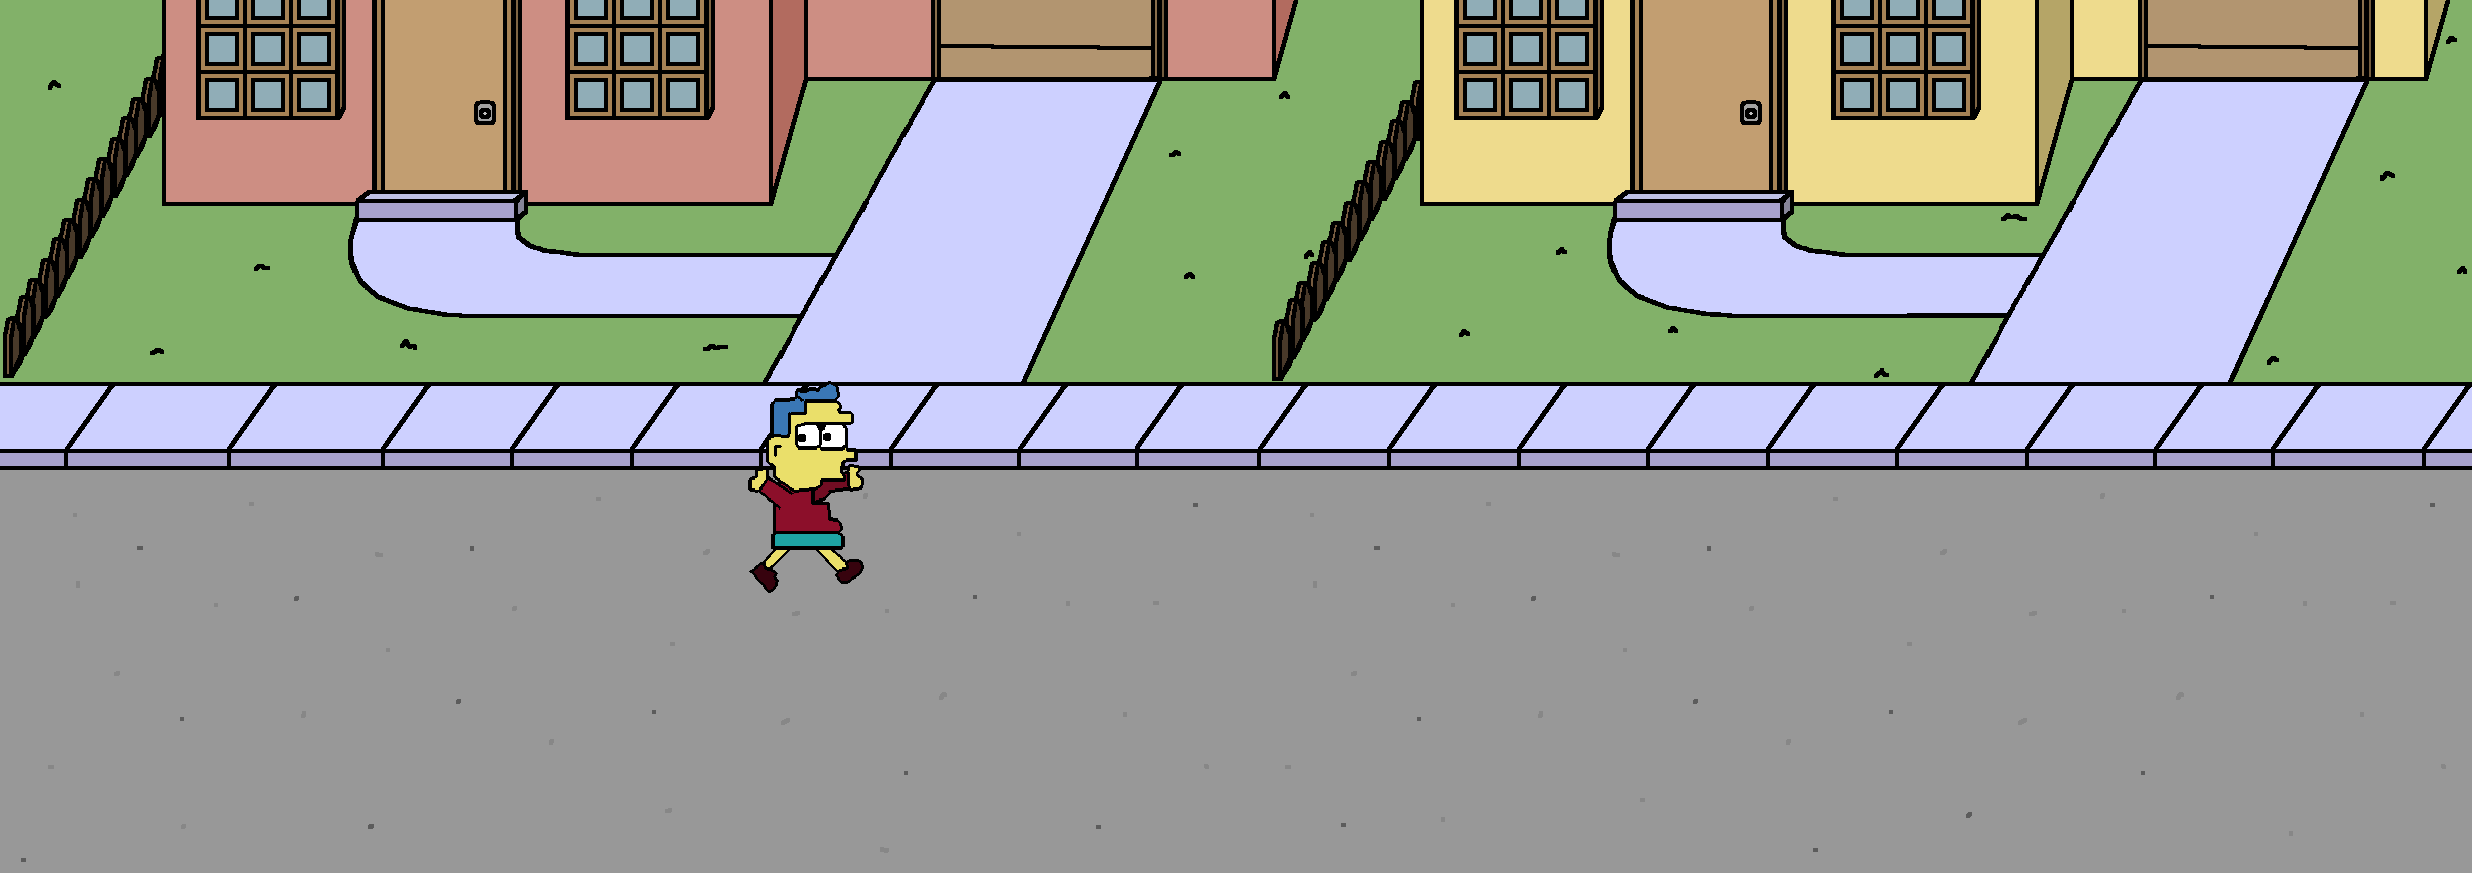
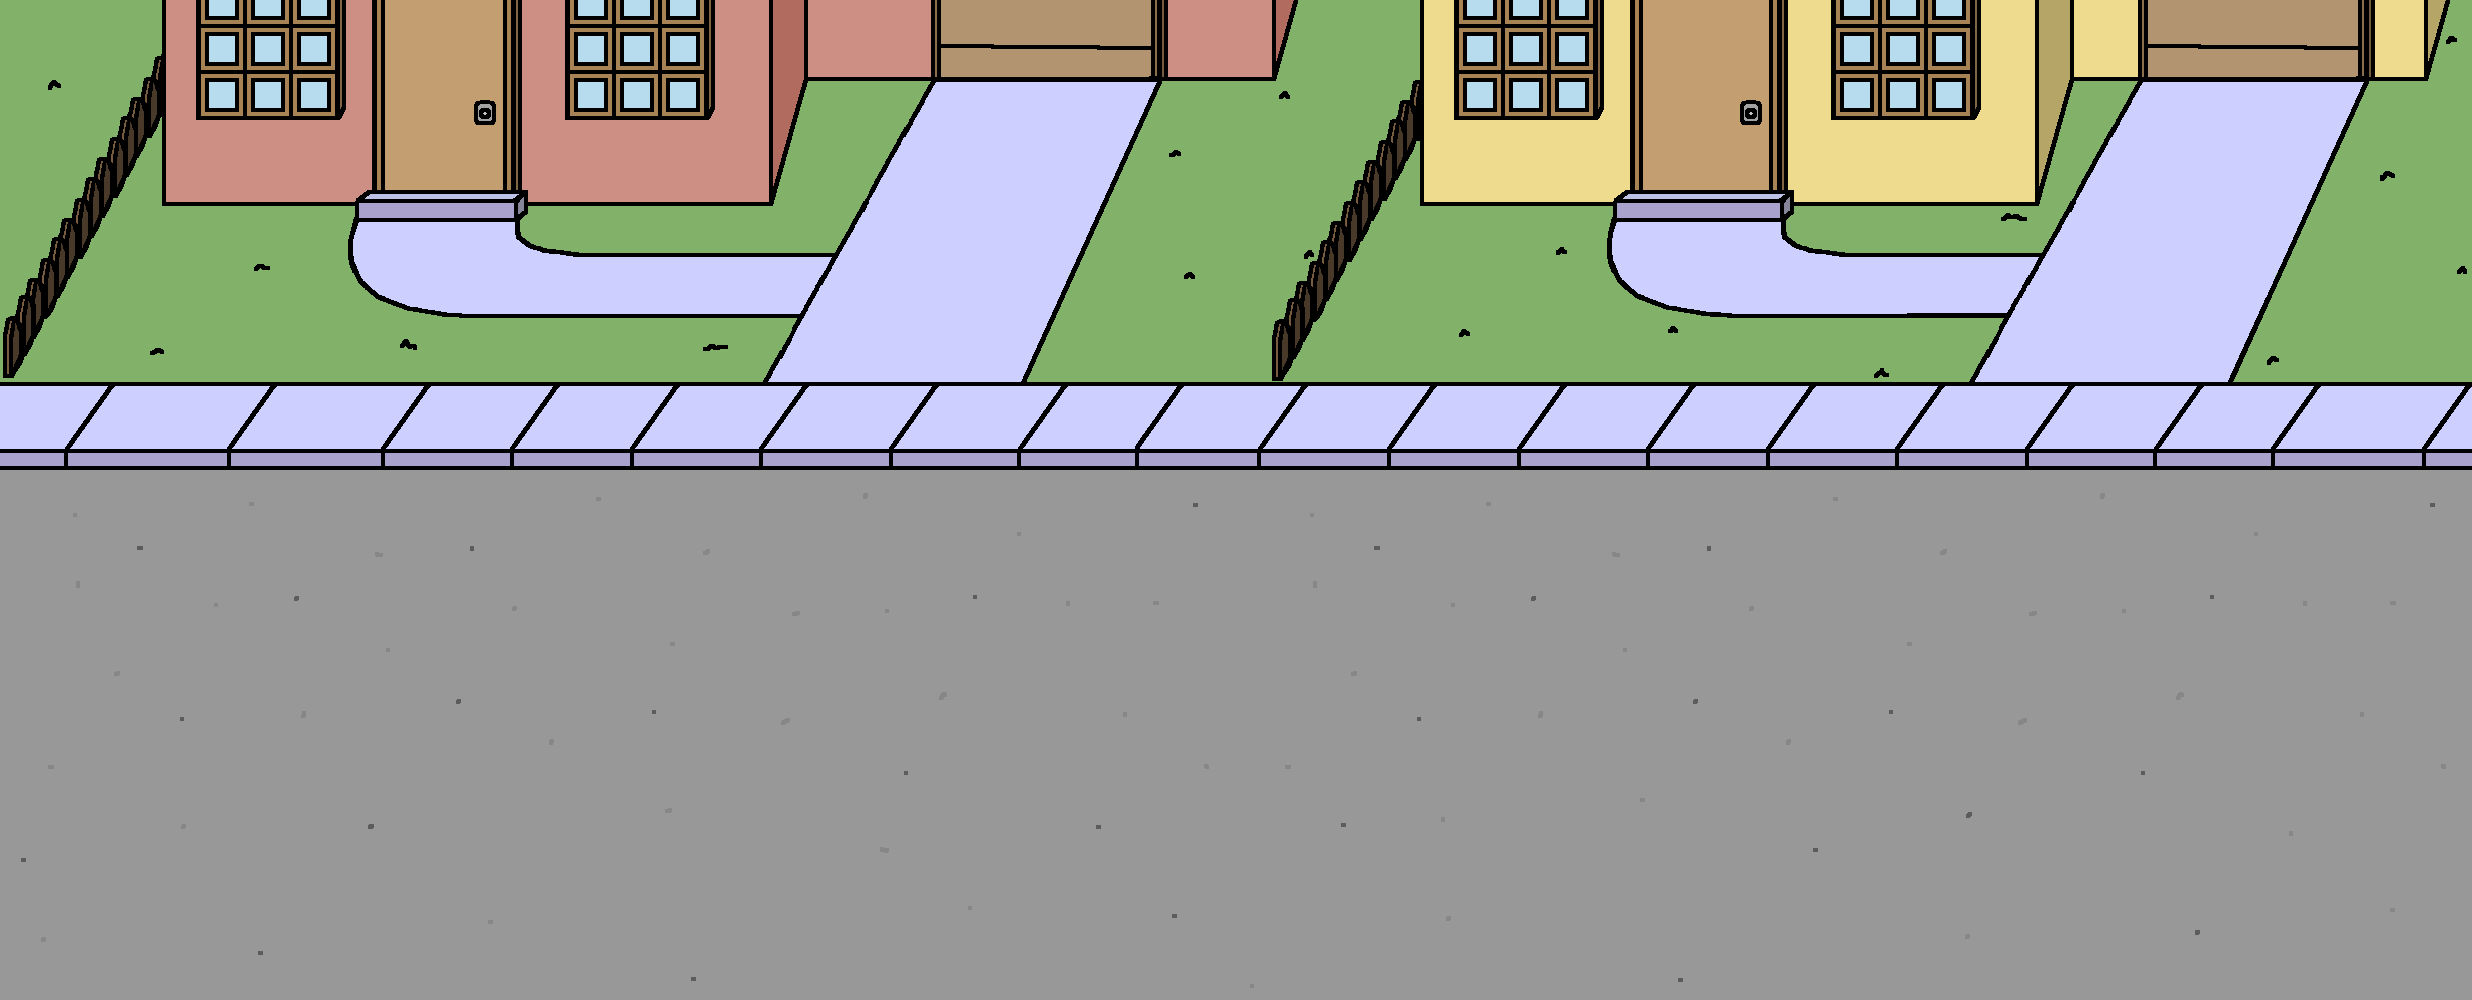
Power went out, added top layer

Changed region(s): [[0.0, 0.0, 1.0, 0.6804], [0.6853, 0.0928, 0.7164, 0.1546]]

diff --git a/src/scenes/Street.js b/src/scenes/Street.js
@@ -5,6 +5,7 @@ class Street extends Phaser.Scene {
 
     init() {
         // Add any constants
+        this.PLAYER_VELOCITY = 50
         this.obstacleSpawnDelay = 2500
         this.OBSTACLE_SPEED = 2
 
@@ -24,6 +25,10 @@ class Street extends Phaser.Scene {
         // cursors = this.input.keyboard.createCursorKeys()
 
         // Add street background
+
+        this.physics.world.setBounds(50, 0, 700, game.config.height)
+
+
         this.street = this.add.tileSprite(0, 0, 9888, 1746, 'street1').setOrigin(0,0).setScale(0.8)
         this.street.y -= 100
 
@@ -33,8 +38,19 @@ class Street extends Phaser.Scene {
         // Add Grandma and Grandson from prefabs
         this.kid = new Grandson(this, width / 2.25, height / 1.525, "grandson", 0, 'right')
         this.kid.setScale(0.8)
-        this.grandma = new Grandma(this, width / 1.65, height / 1.65, "grandma", 0, 'left')
+        this.grandma = new Grandma(this, width / 8, height / 1.65, "grandma", 0, 'right')
         this.grandma.setScale(0.8)
+
+
+        this.kid.flipX = true
+        this.kid.play('scared').once('animationcomplete', () => {
+            this.time.delayedCall(3000, () => { 
+                this.kid.flipX = false
+                this.kid.play('jumping-right')
+            })
+        })
+
+        this.grandmaFSM.transition('chasing')
 
         this.obstacleGroup = this.physics.add.group({
             runChildUpdate: true
@@ -44,8 +60,14 @@ class Street extends Phaser.Scene {
             this.addBarrier() 
         })
 
-        this.add.image(0, 0, 'gameframe').setOrigin(0).setScale(0.8)
+        // this.layer = this.add.layer()
 
+        this.gameFrame = this.add.image(0, 0, 'gameframe').setOrigin(0).setScale(0.8)
+        this.gameFrame.setDepth(1)
+        // const topLayer = this.add.layer()
+        // topLayer.add([gameFrame])
+
+        this.physics.add.collider(this.kid, this.obstacleGroup, this.handleObstacleCollision, null, this, this.obstacleGroup)
 
     }
 
@@ -54,7 +76,7 @@ class Street extends Phaser.Scene {
         this.street.tilePositionX += 4
 
         // // get local KEYS reference
-        // const { KEYS } = this
+        const { KEYS } = this
 
 
         
@@ -62,19 +84,20 @@ class Street extends Phaser.Scene {
         // this.grandsonFSM.step()
         // this.grandmaFSM.step()
 
-        // let playerVector = new Phaser.Math.Vector2(0, 0)
-        // if(this.p1duck.y >= 135){
-        //     if(cursors.up.isDown){
-        //         playerVector.y = -1
-        //     }
-        // }
-        // if(this.p1duck.y <= 400){
-        //     if(cursors.down.isDown){
-        //         playerVector.y = 1
-        //     }
-        // }
-        // playerVector.normalize()
-        // this.p1duck.setVelocity(this.PLAYER_VELOCITY * playerVector.x, this.PLAYER_VELOCITY * playerVector.y)
+        let playerVector = new Phaser.Math.Vector2(0, 0)
+        if(KEYS.UP.isDown){    
+            if(this.kid.y >= 200){
+                playerVector.y = -1
+            }
+        }
+        if(KEYS.DOWN.isDown){
+            if(this.kid.y <= 600){
+                playerVector.y = 1
+            }
+        }
+        playerVector.normalize()
+        this.kid.setVelocity(this.PLAYER_VELOCITY * playerVector.x, this.PLAYER_VELOCITY * playerVector.y)
+        
 
     }
 
@@ -109,25 +132,26 @@ class Street extends Phaser.Scene {
     /*  Add collider for grandson and grandma, when colliding, play animation and find offset OR change hit boxes so no math ? */
 
 
-    handleObstacleCollision(duck, trash){
-        duck.setTint(0xf05a4f)
+    handleObstacleCollision(kid, trash){
+        kid.setTint(0xf05a4f)
         this.time.addEvent({ delay: 175, callback: () => {
-            this.p1duck.clearTint()
-            this.time.addEvent({ delay: 100, callback: () => {this.p1duck.setTint(0xf05a4f)}, callbackScope: this});
-            this.time.addEvent({ delay: 125, callback: () => {this.p1duck.clearTint()}, callbackScope: this})
+            kid.clearTint()
+            this.time.addEvent({ delay: 100, callback: () => {this.kid.setTint(0xf05a4f)}, callbackScope: this});
+            this.time.addEvent({ delay: 125, callback: () => {this.kid.clearTint()}, callbackScope: this})
 
         }, callbackScope: this})
         trash.destroy()
-        this.sound.play('ping')
-        this.p1duck.trashCount += 1
+        // this.sound.play('ping')
 
-        if(this.p1duck.trashCount >=3) {
-            this.scene.start('gameOverScene') 
-            this.mySong.stop()
-        }
-        else{
-            this.lives.setFrame(this.p1duck.trashCount)
-        }
+        // this.p1duck.trashCount += 1
+
+        // if(this.p1duck.trashCount >=3) {
+        //     this.scene.start('gameOverScene') 
+        //     this.mySong.stop()
+        // }
+        // else{
+        //     this.lives.setFrame(this.p1duck.trashCount)
+        // }
         this.PLAYER_VELOCITY = 100
     }
 

diff --git a/src/scenes/Keys.js b/src/scenes/Keys.js
@@ -63,7 +63,6 @@ class Keys extends Phaser.Scene {
             startFrame: 0,
             endFrame: 2
         })
-
     }
 
     create() {
@@ -74,7 +73,9 @@ class Keys extends Phaser.Scene {
             RIGHT:  KeyCodes.RIGHT,
             SHIFT:  KeyCodes.SHIFT,
             SPACE: KeyCodes.SPACE,
-            S: KeyCodes.S
+            S: KeyCodes.S,
+            UP: KeyCodes.UP,
+            DOWN: KeyCodes.DOWN,
         })
         
         // launch next scene so it will run concurrently with this one

diff --git a/Feedback.md b/Feedback.md
@@ -9,3 +9,5 @@
             - [ ] Could do 'press space to continue' then display all options
     - [ ] Is text on menu too much? Should I do transition like above?
     - [ ] Endless or score goal for street sequence?
+        - [ ] Or move grandson's x forward every x points and end when grandson passes a certain x
+    - [ ] Pick up rewards in street sequence ?
